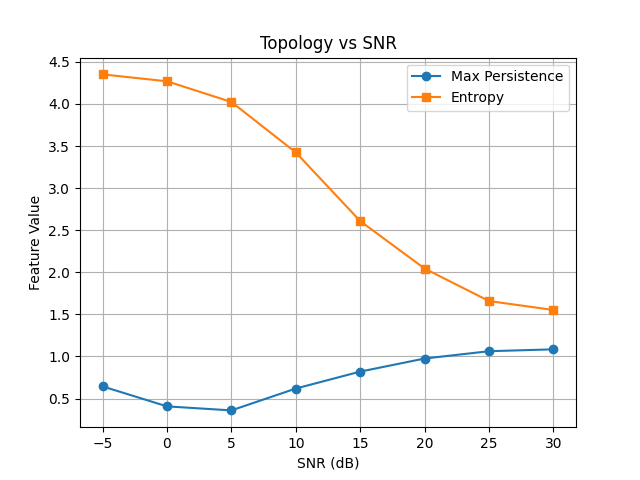
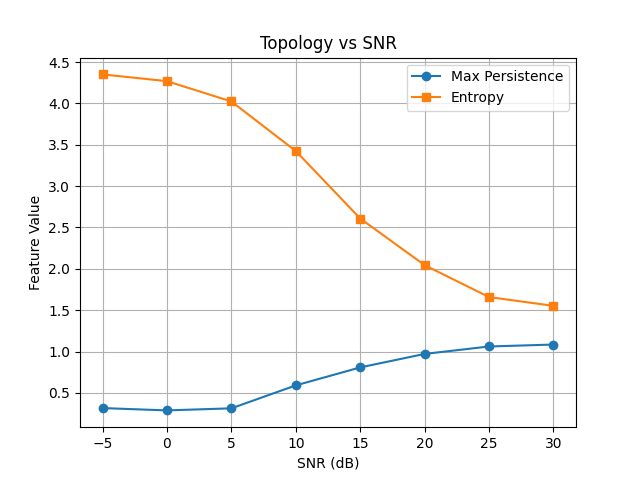
fixed noise normalization

diff --git a/qpsk/02_snr_analysis.py b/qpsk/02_snr_analysis.py
@@ -33,6 +33,7 @@ def run_snr_experiment(snr, signal, tau=2, trials=10):
     for _ in range(trials):
         
         noisy = add_awgn_snr(signal, snr)
+        noisy = noisy / np.std(noisy)
         embedded = delay_embedding(noisy,tau)
         points = subsample(embedded, 200)
 